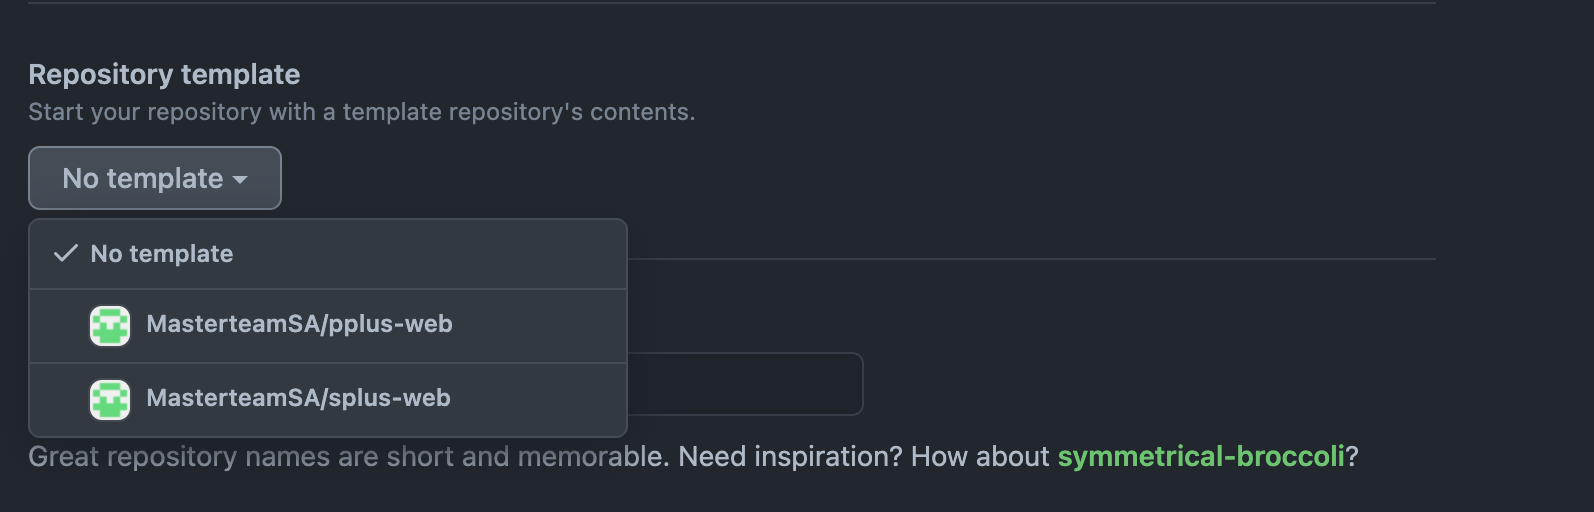
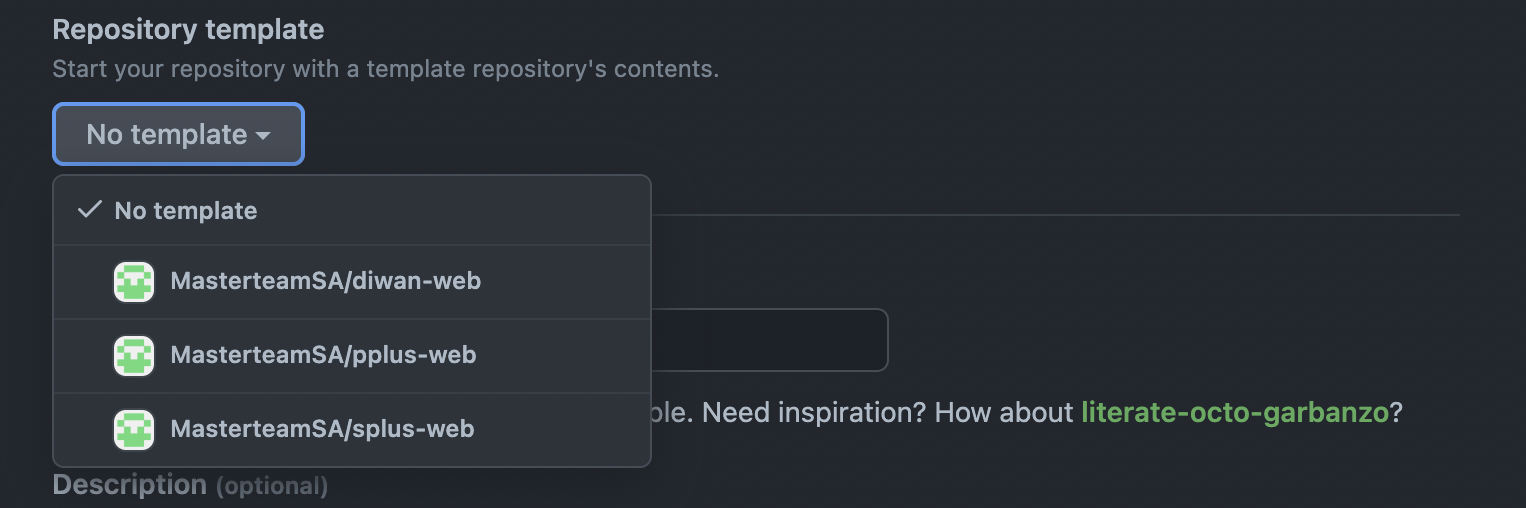
add diwan to new project docs

diff --git a/docs/workflow/new-project/create-new-repo.md b/docs/workflow/new-project/create-new-repo.md
@@ -9,6 +9,7 @@ products repos which are the following:
 
 - ***[PPlus](https://github.com/MasterteamSA/pplus-web)***
 - ***[SPlus](https://github.com/MasterteamSA/splus-web)***
+- ***[Diwan](https://github.com/MasterteamSA/diwan-web)***
 
 to do that we start by clicking the `New repository` button, located in the header bar or the organization page.
 
@@ -24,6 +25,7 @@ First of all you should select the template you want the repo to be based on acc
 
 - `MasterteamSA/pplus-web` for pplus
 - `MasterteamSA/splus-web` for splus
+- `MasterteamSA/diwan-web` for diwan
 
 ![Templete Selection](/img/create-repo/template-selection.png)
 
@@ -37,6 +39,7 @@ For the naming of the repository it should be handled as follows:
 
 - PPlus: `pplus-{{client-name}}-web`.
 - SPlus: `splus-{{client-name}}-web`.
+- Diwan: `diwan-{{client-name}}-web`.
 
 ![Owner and Name](/img/create-repo/owner-name.png)
 

diff --git a/docs/workflow/new-project/configure-the-project.md b/docs/workflow/new-project/configure-the-project.md
@@ -10,7 +10,7 @@ Once you have the repo cloned to your machine it's time to configure the project
 
 We usually use different port number for each client to make it easier to develop for multiple clients without having to deal with clearing data all the time.
 
-The port number for ***PPlus*** projects starts from ***3000*** and the port number for ***SPlus*** projects starts from ***4000***.
+The port number for ***PPlus*** projects starts from ***3000***, the port number for ***SPlus*** projects starts from ***4000*** and the port number for ***Diwan*** projects starts from ***5000***.
 
 This number will be a simple increment from the last use number for each product we have and it will be configured in the run script in the `package.json` file.
 
